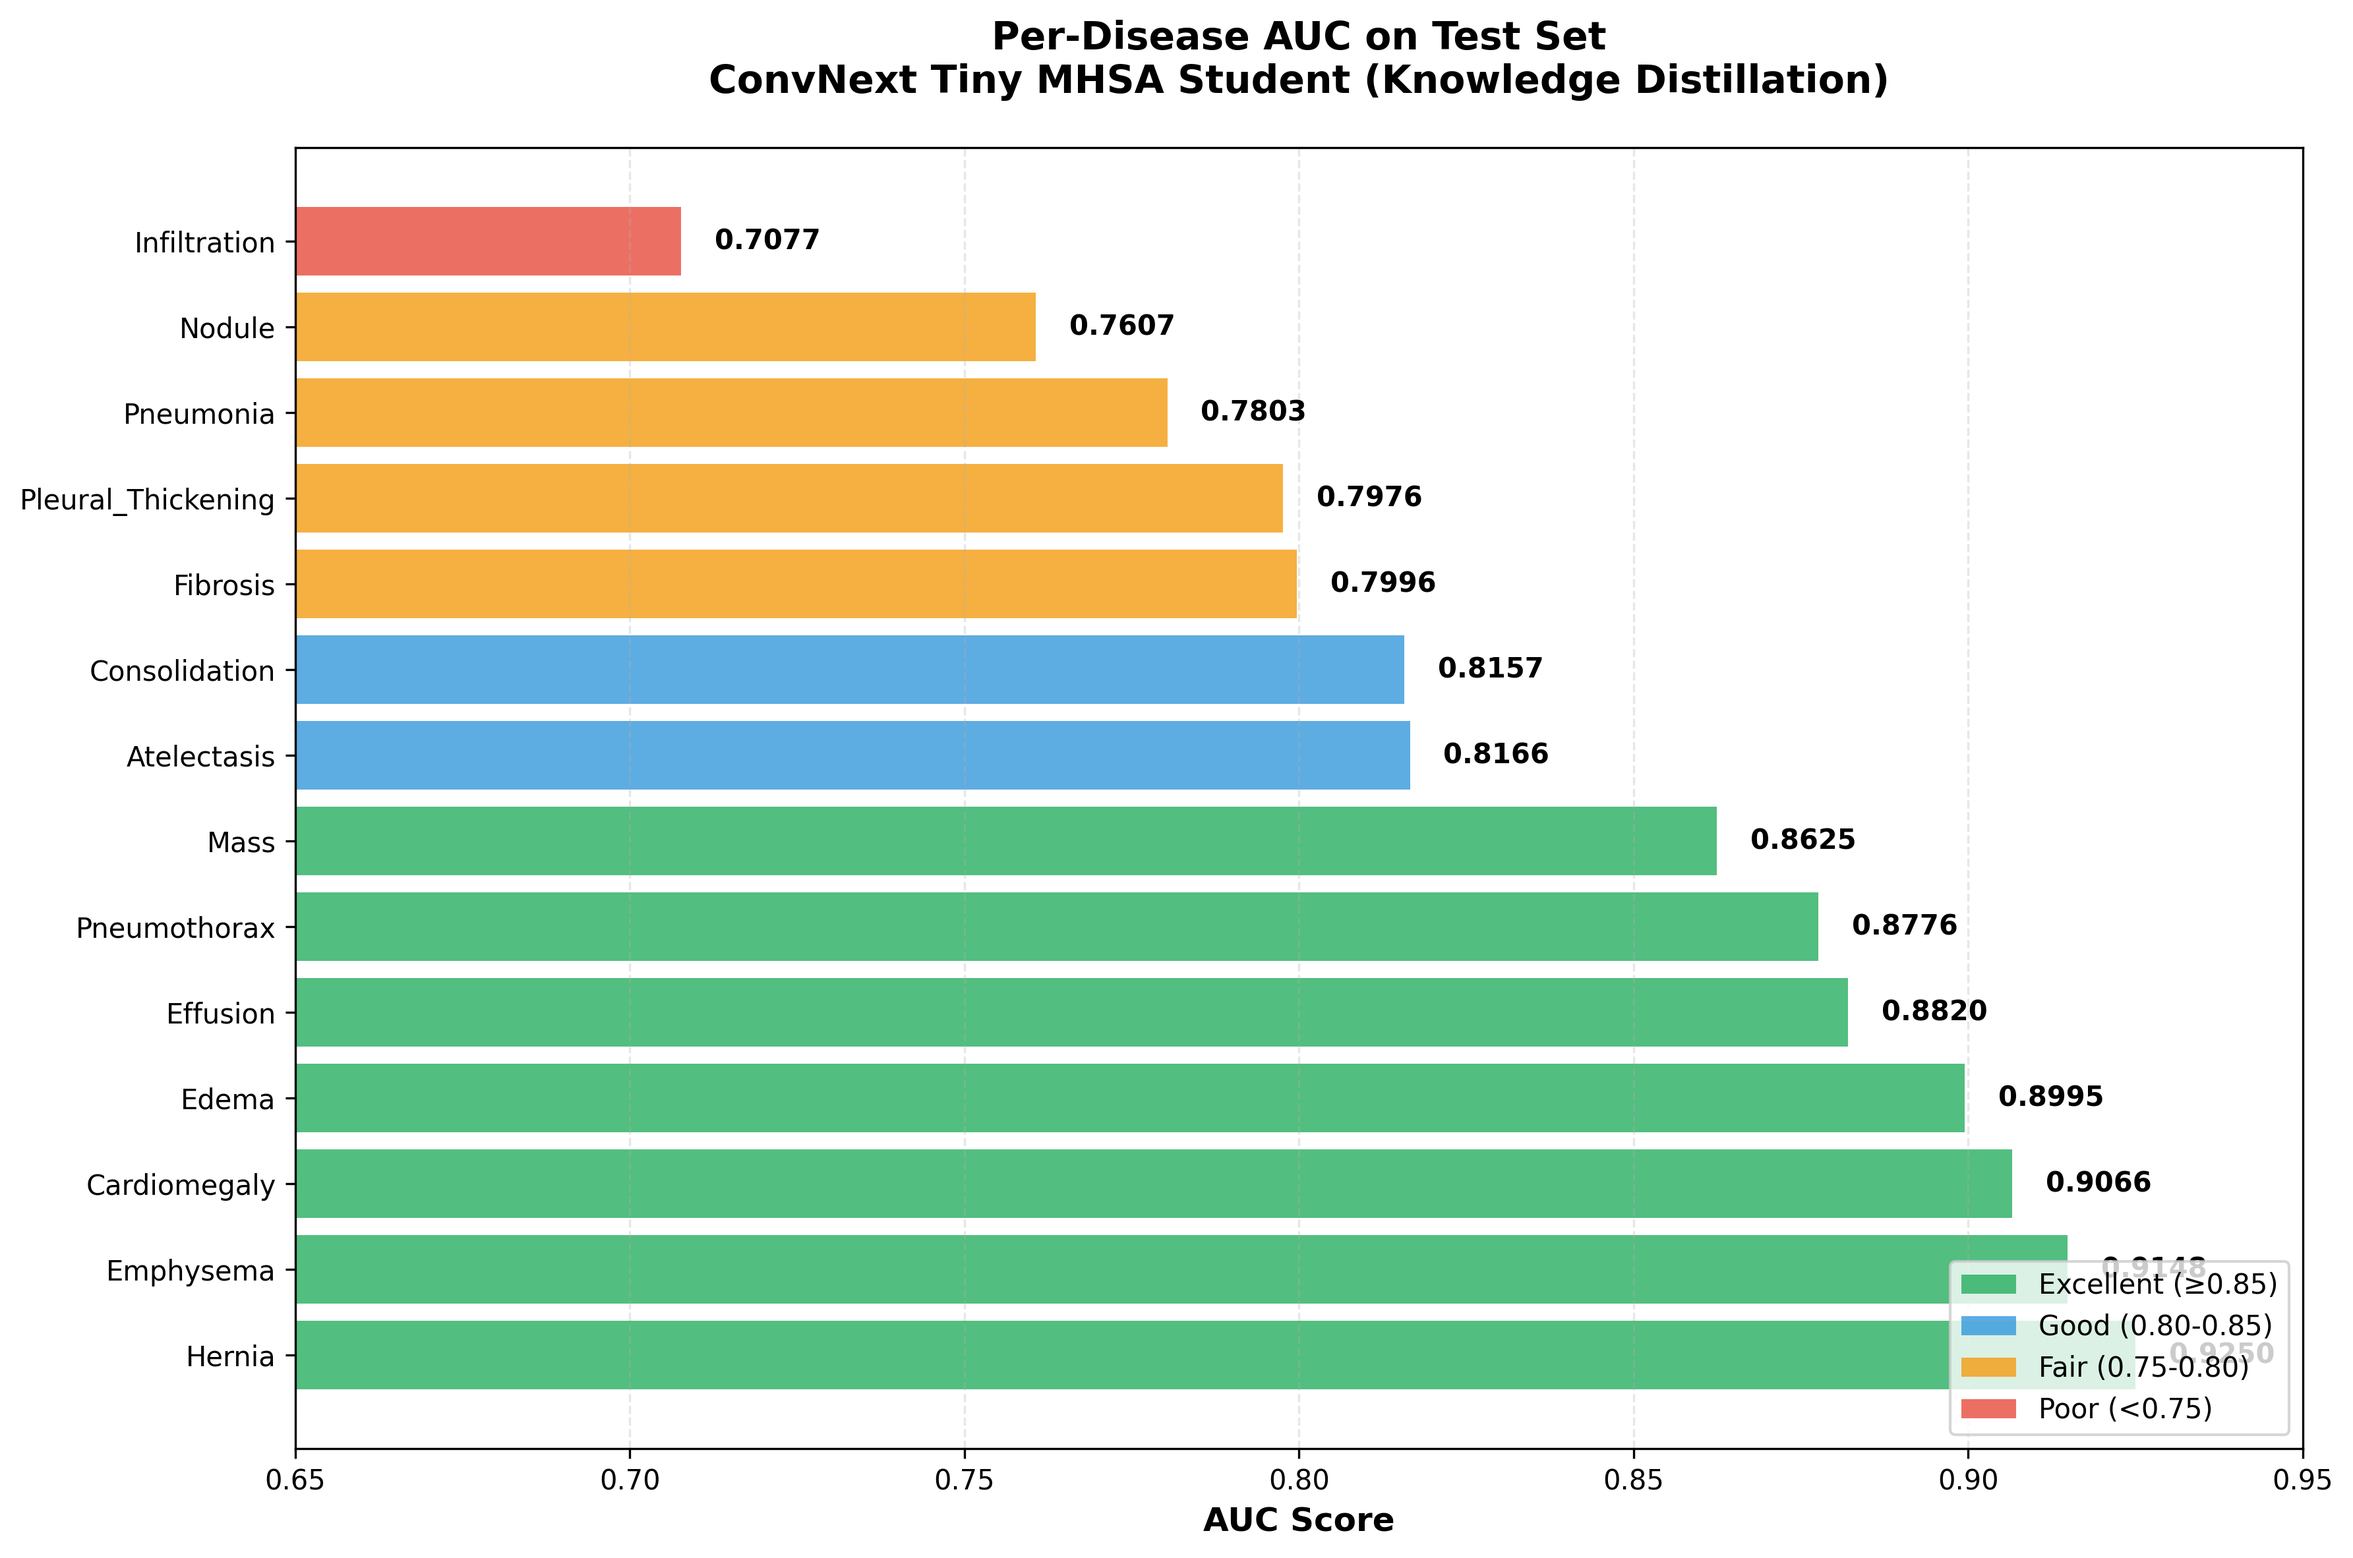
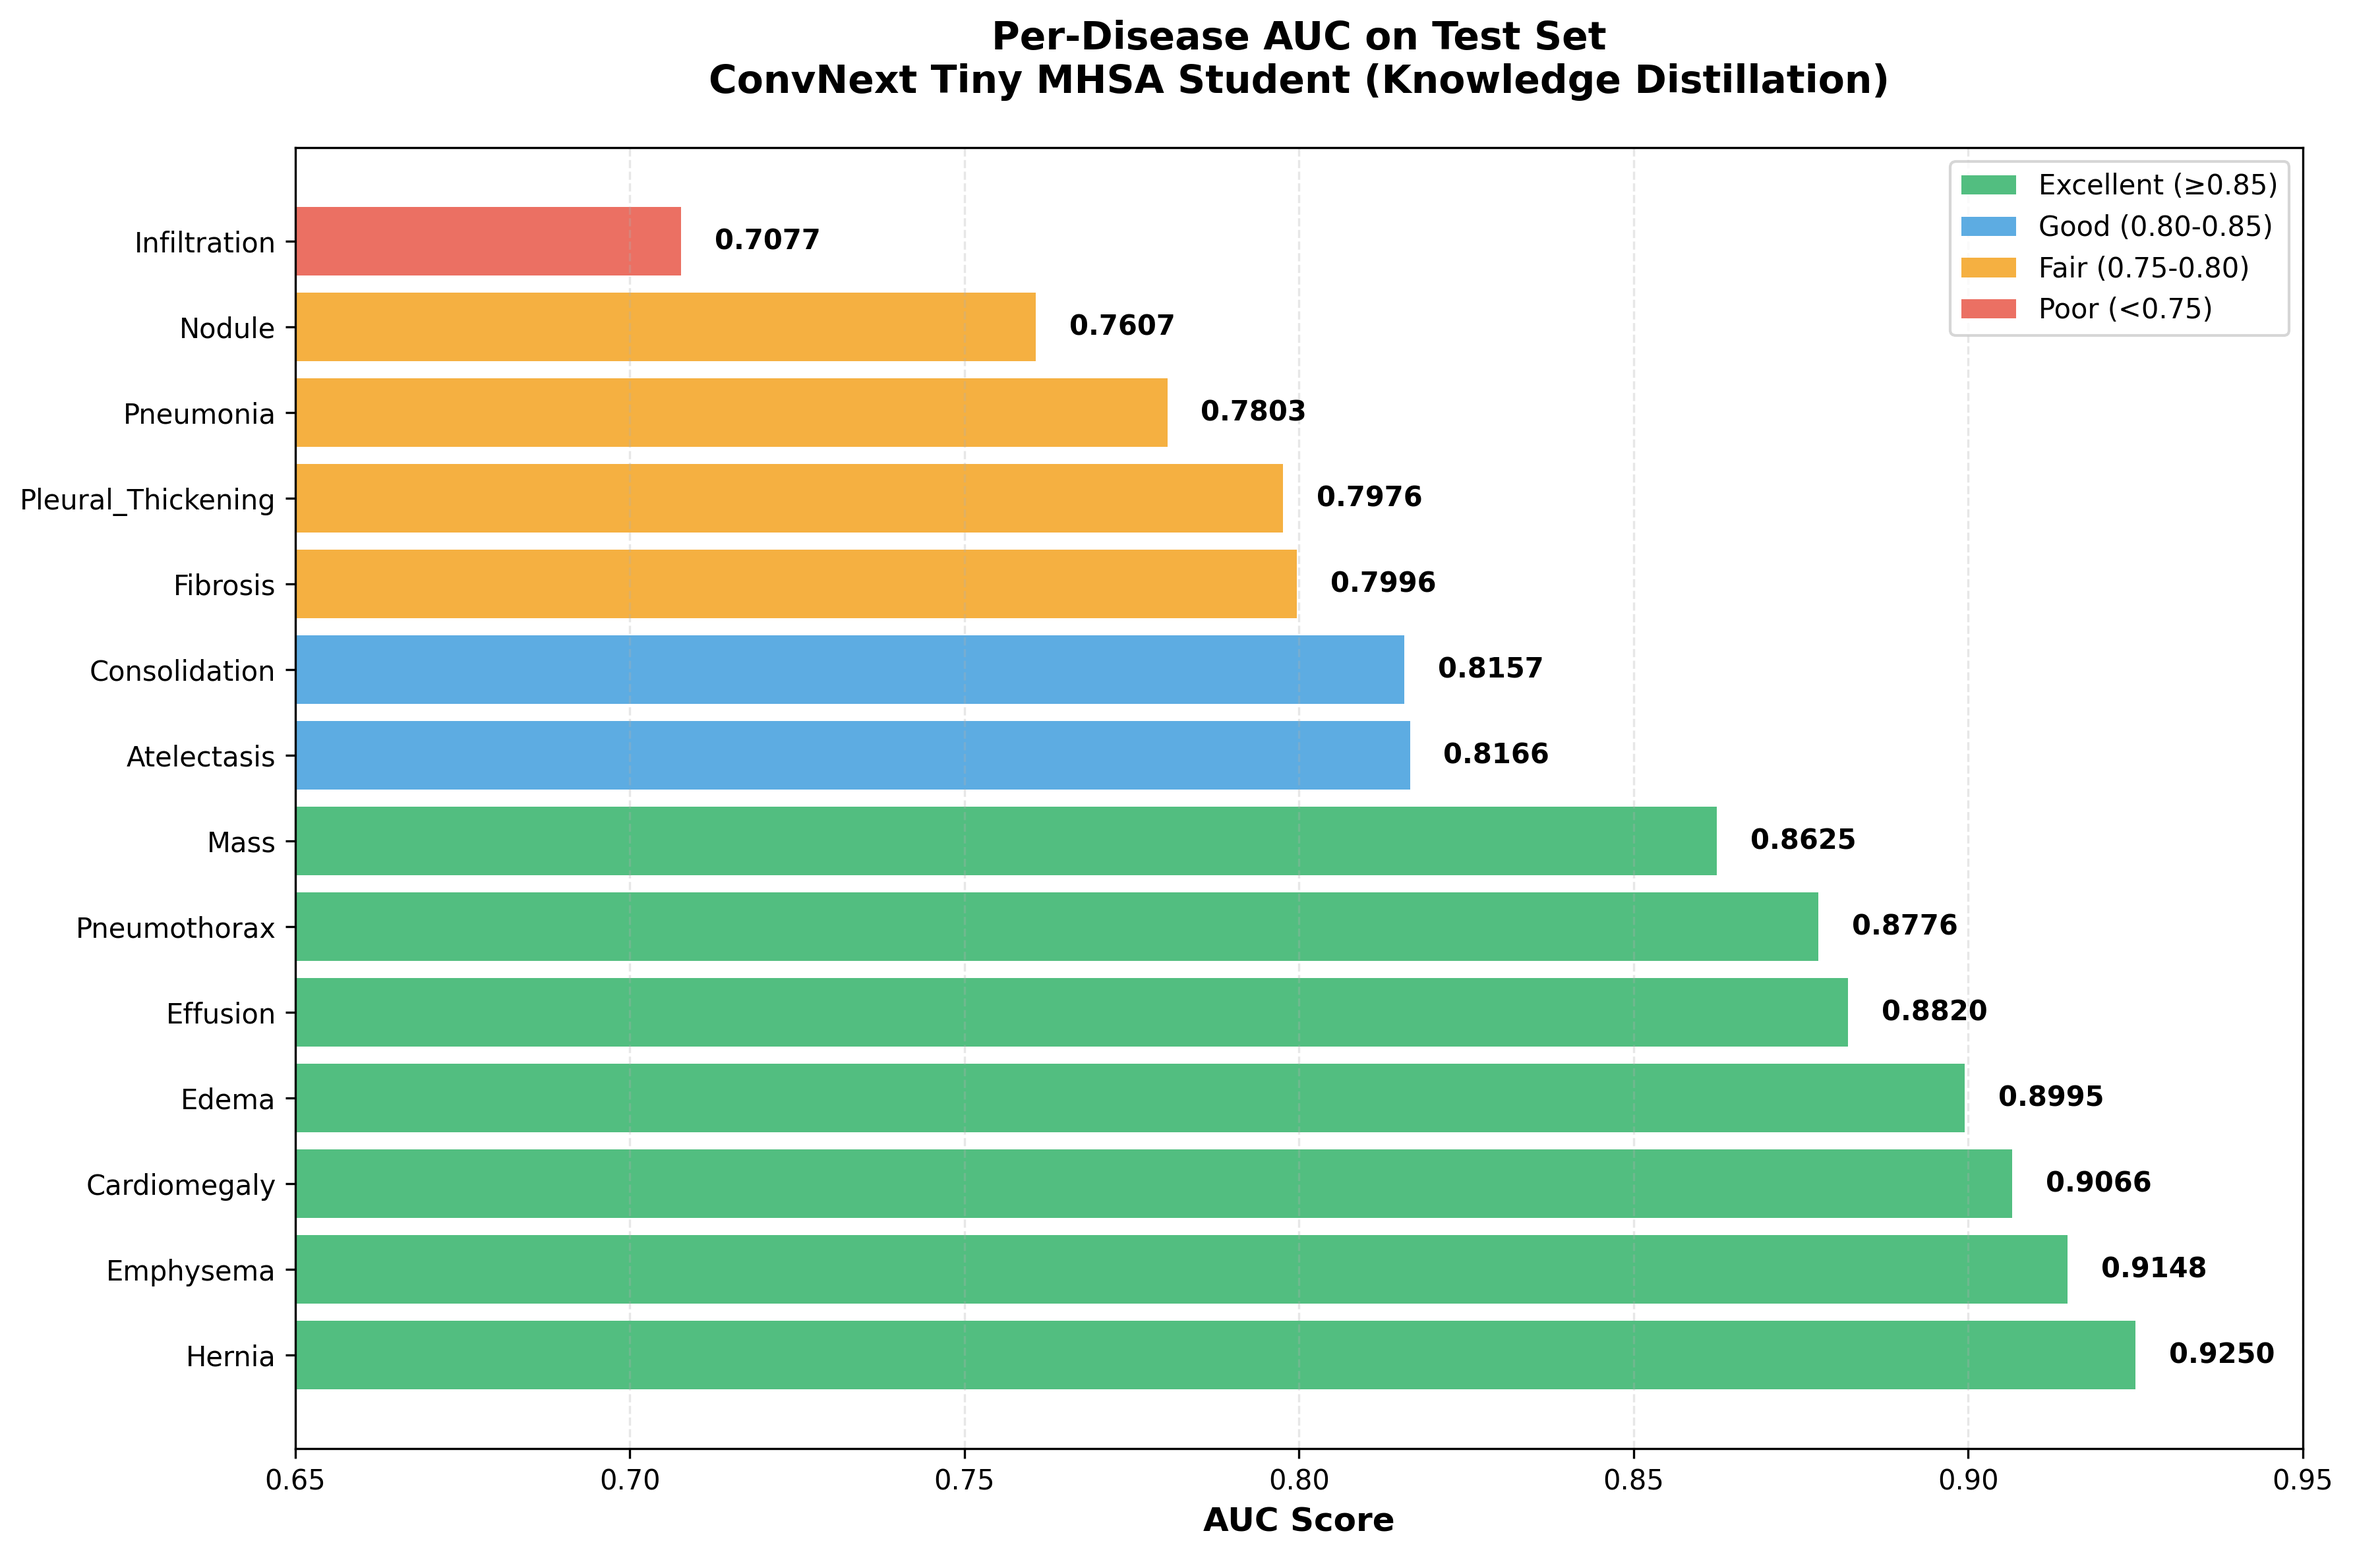
feat: Add calibration curves visualization for model predictions

Changed region(s): [[0.8086, 0.8029, 0.9641, 0.9264], [0.8086, 0.0926, 0.9641, 0.2162]]

diff --git a/scripts/generate_kd_visualizations.py b/scripts/generate_kd_visualizations.py
@@ -127,7 +127,7 @@ def create_per_disease_chart(test_data):
         Patch(facecolor='#F39C12', alpha=0.8, label='Fair (0.75-0.80)'),
         Patch(facecolor='#E74C3C', alpha=0.8, label='Poor (<0.75)')
     ]
-    ax.legend(handles=legend_elements, loc='lower right', fontsize=10)
+    ax.legend(handles=legend_elements, loc='upper right', fontsize=10)
     
     plt.tight_layout()
     plt.savefig(project_root / "results" / "test_per_disease_auc.png", dpi=300, bbox_inches='tight')
@@ -189,20 +189,20 @@ def create_baseline_vs_kd_comparison():
 
 
 def create_training_efficiency_chart():
-    """Create chart showing training efficiency (epochs vs AUC)"""
+    """Create chart showing training efficiency (epochs to convergence vs AUC)"""
     
     fig, ax = plt.subplots(figsize=(10, 6))
     
-    # Data
-    configs = ['Baseline\n(50 epochs)', 'KD\n(40 epochs)', 'Best at Test\n(Converged)']
-    epochs = [50, 40, 33]  # KD converged at epoch 15 but ran 40, test eval on best
+    # Data - epochs to reach best AUC (convergence), not total training epochs
+    configs = ['Baseline\n(Converged at Epoch 28)', 'KD\n(Converged at Epoch 15)', 'Test Set\n(Best Checkpoint)']
+    epochs = [28, 15, 28]  # Actual epochs where best AUC was achieved
     aucs = [0.8351, 0.8446, 0.8390]  # Baseline best, KD best val, Test best
     colors_list = ['#E67E22', '#9B59B6', '#27AE60']
     
     bars = ax.bar(configs, aucs, color=colors_list, alpha=0.8, edgecolor='black', linewidth=1.5)
     
     ax.set_ylabel('Best AUC', fontsize=12, fontweight='bold')
-    ax.set_title('Training Efficiency: AUC vs Configuration\nConvNext Tiny MHSA Model Comparison', 
+    ax.set_title('Training Efficiency: AUC vs Convergence Epochs\nConvNext Tiny MHSA Model Comparison', 
                  fontsize=14, fontweight='bold', pad=20)
     ax.set_ylim(0.82, 0.850)
     ax.grid(axis='y', alpha=0.3, linestyle='--')
@@ -210,12 +210,126 @@ def create_training_efficiency_chart():
     # Add value labels with epoch info
     for i, (bar, auc, ep) in enumerate(zip(bars, aucs, epochs)):
         ax.text(bar.get_x() + bar.get_width()/2., auc + 0.002,
-               f'AUC: {auc:.4f}\nEpochs: {ep}',
+               f'AUC: {auc:.4f}\nConverged: Epoch {ep}',
                ha='center', va='bottom', fontsize=11, fontweight='bold')
     
     plt.tight_layout()
     plt.savefig(project_root / "results" / "training_efficiency.png", dpi=300, bbox_inches='tight')
     print("✓ Saved: results/training_efficiency.png")
+    plt.close()
+
+
+def create_calibration_plot():
+    """Create calibration plot showing predicted probabilities vs true positive rate"""
+    
+    # Load test evaluation results with predictions
+    test_results_path = project_root / "experiments" / "test_evaluation_results.json"
+    with open(test_results_path) as f:
+        test_data = json.load(f)
+    
+    # We need to regenerate predictions - load model and test data
+    import torch
+    from torch.utils.data import DataLoader
+    from ml.models.student_model import create_student_model
+    from ml.data.preprocessing import get_medical_transforms
+    from scripts.evaluate_test_set import RawTestDataset
+    
+    device = torch.device('cuda' if torch.cuda.is_available() else 'cpu')
+    
+    # Load model
+    checkpoint_path = project_root / "ml" / "models" / "checkpoints" / "kd" / "convnext_tiny_mhsa" / "best_checkpoint.pth"
+    student = create_student_model('convnext_tiny_mhsa', num_classes=14, pretrained=False)
+    checkpoint = torch.load(checkpoint_path, map_location=device, weights_only=False)
+    student.load_state_dict(checkpoint['student_state_dict'])
+    student.to(device)
+    student.eval()
+    
+    # Load test data
+    test_csv = project_root / "data" / "splits" / "test.csv"
+    raw_images_dir = project_root / "data" / "raw" / "images"
+    val_transform = get_medical_transforms(use_clahe=False, use_denoising=False)
+    test_dataset = RawTestDataset(test_csv, raw_images_dir, transform=val_transform)
+    test_loader = DataLoader(test_dataset, batch_size=32, shuffle=False, num_workers=4, pin_memory=True)
+    
+    # Get predictions
+    all_preds = []
+    all_targets = []
+    
+    with torch.no_grad():
+        for images, labels in test_loader:
+            images = images.to(device)
+            outputs = student(images)
+            probs = torch.sigmoid(outputs).cpu().numpy()
+            all_preds.append(probs)
+            all_targets.append(labels.numpy())
+    
+    preds = np.concatenate(all_preds, axis=0)
+    targets = np.concatenate(all_targets, axis=0)
+    
+    # Create calibration plot for top 6 diseases (by AUC)
+    disease_aucs = [(i, test_data['per_disease_metrics'][DISEASE_LABELS[i]]['auc']) 
+                    for i in range(14)]
+    disease_aucs_sorted = sorted(disease_aucs, key=lambda x: x[1], reverse=True)
+    top_diseases = [d[0] for d in disease_aucs_sorted[:6]]
+    
+    fig, axes = plt.subplots(2, 3, figsize=(15, 10))
+    axes = axes.flatten()
+    
+    bins = np.linspace(0, 1, 11)  # 10 bins: [0-0.1), [0.1-0.2), ..., [0.9-1.0]
+    
+    for idx, disease_idx in enumerate(top_diseases):
+        ax = axes[idx]
+        disease_name = DISEASE_LABELS[disease_idx]
+        
+        disease_preds = preds[:, disease_idx]
+        disease_targets = targets[:, disease_idx]
+        
+        # Calculate calibration
+        bin_means = []
+        bin_true_rates = []
+        bin_counts = []
+        
+        for i in range(len(bins) - 1):
+            bin_mask = (disease_preds >= bins[i]) & (disease_preds < bins[i+1])
+            if i == len(bins) - 2:  # Last bin includes 1.0
+                bin_mask = (disease_preds >= bins[i]) & (disease_preds <= bins[i+1])
+            
+            if bin_mask.sum() > 0:
+                bin_preds = disease_preds[bin_mask]
+                bin_targets = disease_targets[bin_mask]
+                bin_means.append(bin_preds.mean())
+                bin_true_rates.append(bin_targets.mean())
+                bin_counts.append(len(bin_preds))
+        
+        # Plot calibration curve
+        ax.plot(bin_means, bin_true_rates, 'o-', linewidth=2, markersize=8, 
+                color='#2E86AB', label='Model Calibration')
+        
+        # Plot perfect calibration line
+        ax.plot([0, 1], [0, 1], '--', color='#E74C3C', linewidth=2, 
+                alpha=0.7, label='Perfect Calibration')
+        
+        ax.set_xlabel('Mean Predicted Probability', fontsize=10, fontweight='bold')
+        ax.set_ylabel('Fraction of Positives', fontsize=10, fontweight='bold')
+        ax.set_title(f'{disease_name}\nAUC: {test_data["per_disease_metrics"][disease_name]["auc"]:.3f}',
+                     fontsize=11, fontweight='bold')
+        ax.set_xlim([0, 1])
+        ax.set_ylim([0, 1])
+        ax.grid(alpha=0.3, linestyle='--')
+        ax.legend(fontsize=8, loc='upper left')
+        
+        # Add sample count annotation
+        total_positives = int(disease_targets.sum())
+        total_samples = len(disease_targets)
+        ax.text(0.98, 0.02, f'Positives: {total_positives}/{total_samples}',
+                transform=ax.transAxes, fontsize=8, ha='right', va='bottom',
+                bbox=dict(boxstyle='round', facecolor='wheat', alpha=0.3))
+    
+    plt.suptitle('Calibration Curves: Top 6 Diseases by AUC\nConvNext Tiny MHSA on Test Set',
+                 fontsize=14, fontweight='bold', y=0.995)
+    plt.tight_layout()
+    plt.savefig(project_root / "results" / "calibration_curves.png", dpi=300, bbox_inches='tight')
+    print("✓ Saved: results/calibration_curves.png")
     plt.close()
 
 
@@ -268,6 +382,7 @@ def main():
     create_per_disease_chart(test_data)
     create_baseline_vs_kd_comparison()
     create_training_efficiency_chart()
+    create_calibration_plot()
     summary_df = create_summary_table()
     
     print("\n" + "="*70)
@@ -280,6 +395,7 @@ def main():
     print("   - results/test_per_disease_auc.png")
     print("   - results/baseline_vs_kd_comparison.png")
     print("   - results/training_efficiency.png")
+    print("   - results/calibration_curves.png")
     print("   - experiments/phase_comparison_summary.csv")
 
 
